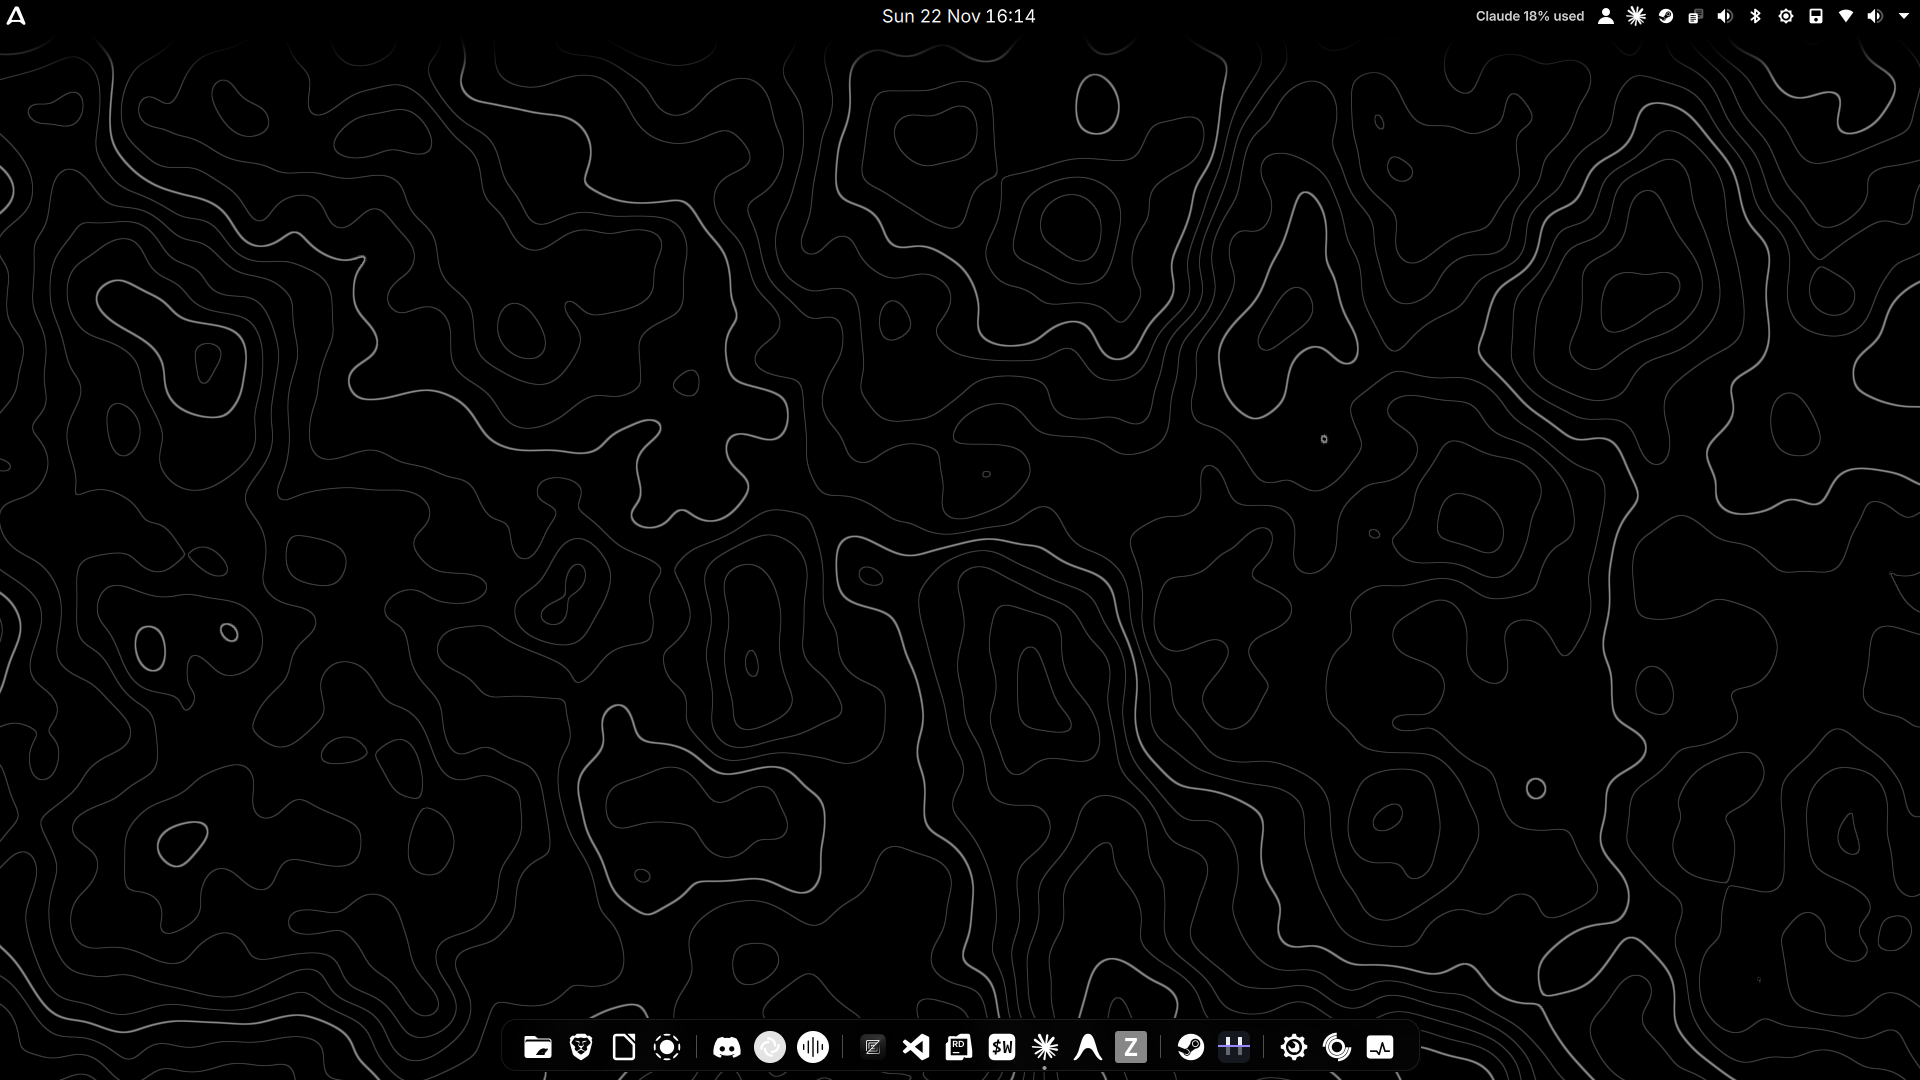
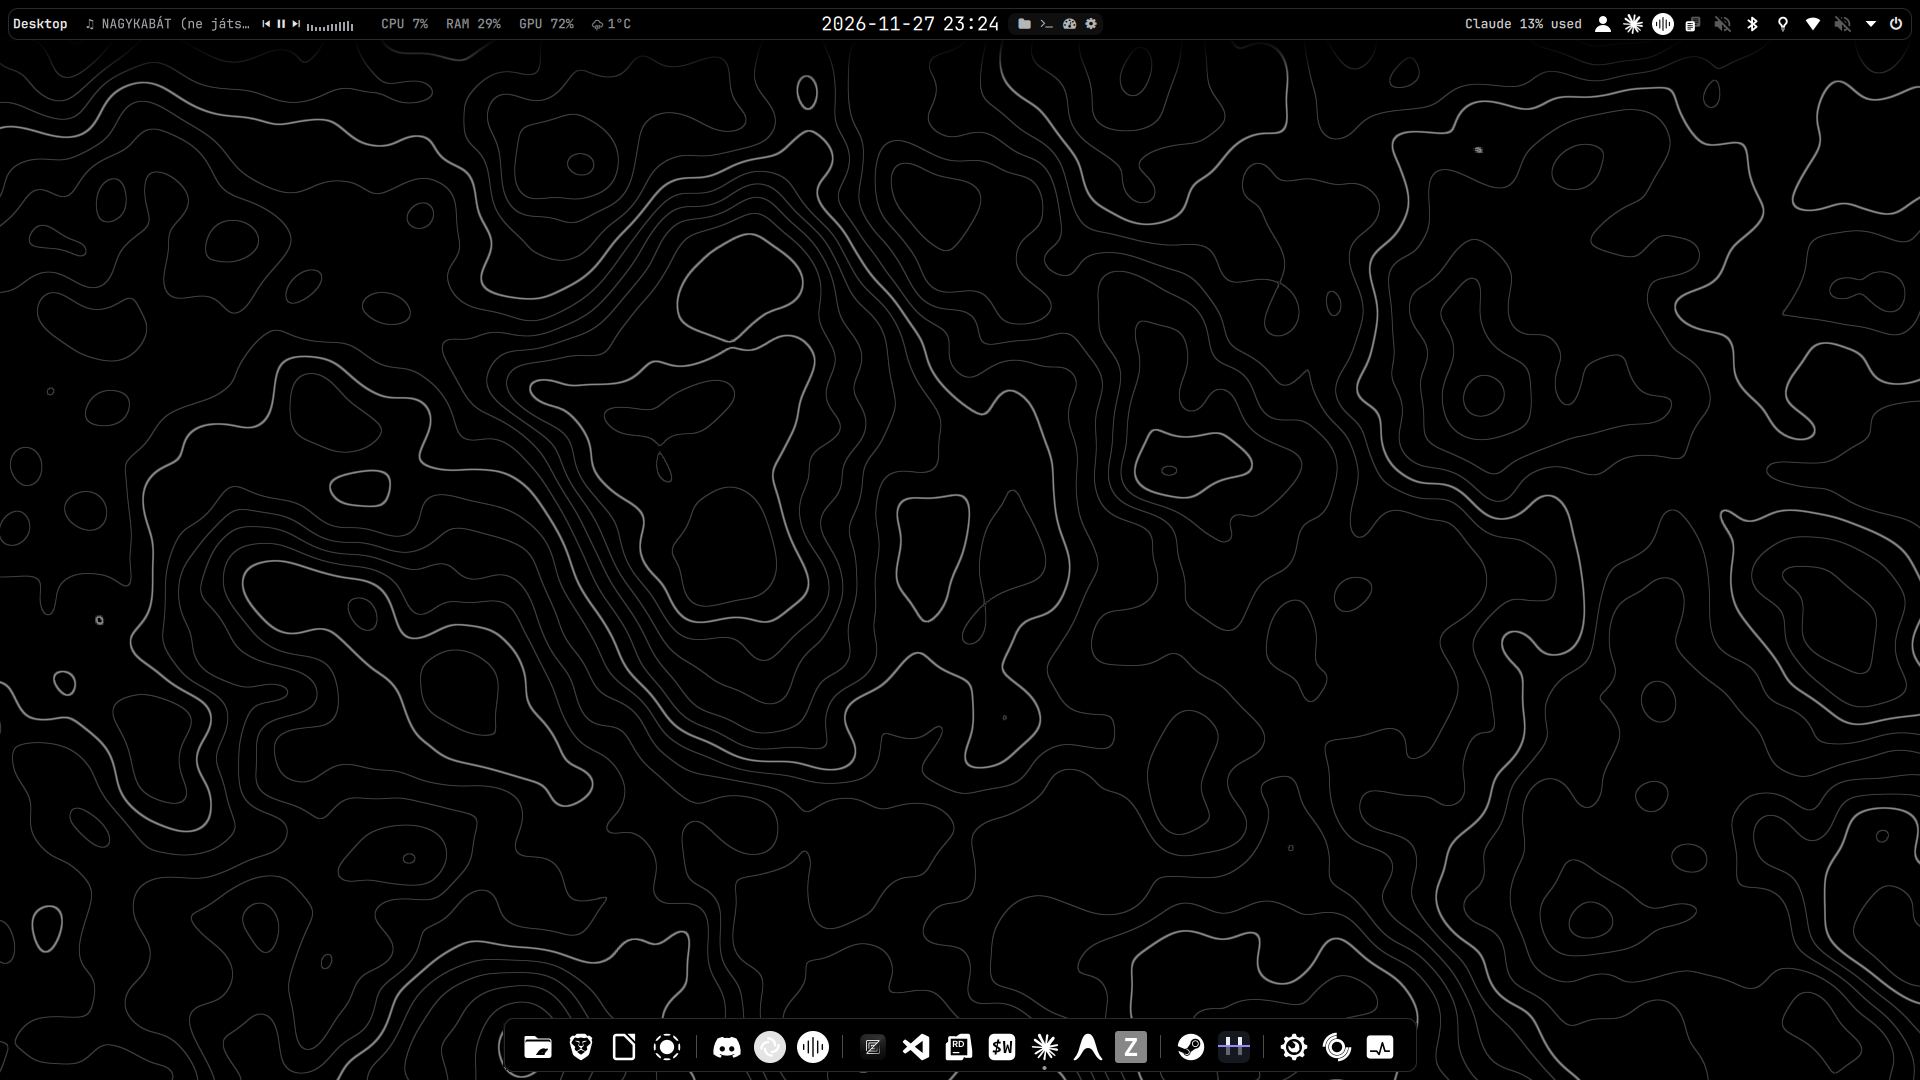
docs: retake the laptop screenshots and add the design notes
The laptop shots show the new top bar, dock border and yyyy-MM-dd clock.

diff --git a/docs/superpowers/plans/2026-11-27-laptop-top-bar.md b/docs/superpowers/plans/2026-11-27-laptop-top-bar.md
@@ -1,0 +1,105 @@
+# Laptop Top Bar Implementation Plan
+
+> **For agentic workers:** REQUIRED SUB-SKILL: Use superpowers:subagent-driven-development (recommended) or superpowers:executing-plans to implement this plan task-by-task. Steps use checkbox (`- [ ]`) syntax for tracking.
+
+**Goal:** Make the laptop's KDE panels look like, and show what, the Windows YASB bar and dock do.
+
+**Architecture:**
+- A user-local Plasma style, `OLED-Monochrome`: a copy of WhiteSur-dark-mono with its own panel
+  background, opaque black, radius 10, 1 px `#2A2B2D` border.
+- Six small QML plasmoids (quick apps added while building) under `strata/40-apps/kde-bar/plasmoids/`.
+- One install script that installs the style and plasmoids and, with `--layout`, rebuilds the top
+  panel after a backup.
+
+**Tech Stack:** QML (Plasma 6.8 plasmoids), bash, Python 3 stdlib, cava.
+
+**Spec:** `docs/superpowers/specs/2026-11-27-laptop-top-bar-design.md`
+
+## Global Constraints
+
+- Plasma 6 / Qt 6 QML only; no compiled code, no AUR packages.
+- Text: font `JetBrainsMono Nerd Font`, colour `#E6E6E6`; border `#2A2B2D`; corner radius 10 px.
+- Polling: at most every 2000 ms for stats, 30 min for weather, 300 s for the calendar refresh,
+  about 50 ms for the visualizer, and only while a player is Playing.
+- `--dry-run` on every script. Back up `~/.config/plasma-org.kde.plasma.desktop-appletsrc` and
+  `~/.config/plasmarc` with a timestamp before changing them. Edit AppletOrder only while
+  `plasma-plasmashell.service` is stopped.
+- No secrets in the repo. No commits unless the user asks.
+
+## Review Focus
+
+- **Nothing playing, or the player closed while playing:** the media widget takes no room and the
+  helper exits.
+- **cava not installed:** the visualizer shows flat bars and nothing errors in the journal.
+- **Offline at login:** the weather is hidden, then appears on the next successful fetch.
+- **No events in the coming days, or an all-day event:** the event label hides, or shows `All day`.
+- **Desktop focused (no active window):** the app name shows `Desktop`.
+
+---
+
+### Task 1: Plasma style with rounded, bordered panels
+
+**Files:**
+- Create: `strata/40-apps/kde-bar/plasma-style/panel-background.svg`
+  - A frame SVG with the elements `center`, `top`, `bottom`, `left`, `right`, `topleft`,
+    `topright`, `bottomleft` and `bottomright`.
+  - Matching `mask-*` elements, and `hint-{top,bottom}-margin` of 3 px and
+    `hint-{left,right}-margin` of 8 px.
+  - Corners are 10 x 10: a quarter disc of `#2A2B2D` with a radius-9 black quarter disc inside;
+    edges are 1 px border plus black.
+- Create: `strata/40-apps/kde-bar/install-kde-bar.sh`. This task adds the `--style` part only:
+  copy `/usr/share/plasma/desktoptheme/WhiteSur-dark-mono` to
+  `~/.local/share/plasma/desktoptheme/OLED-Monochrome`, rewrite the metadata Id and Name, and put
+  the SVG at `widgets/panel-background.svg` with the `.svgz` removed. Then
+  `plasma-apply-desktoptheme OLED-Monochrome`.
+
+- [ ] Validate the SVG with Python `xml.etree`; every required id is present.
+- [ ] Run `install-kde-bar.sh --dry-run --style` and check it lists the copy, the overlay and the
+  apply.
+- [ ] Run `--style` on the laptop; `plasmarc [Theme] name=OLED-Monochrome`.
+- [ ] Screenshot: both panels show rounded corners with a grey 1 px border.
+
+### Task 2: Widgets
+
+**Files:** `strata/40-apps/kde-bar/plasmoids/<id>/metadata.json` and `contents/ui/main.qml` for
+each widget. All use `Plasmoid.backgroundHints: NoBackground` and take no room while they have
+nothing to show.
+
+| Id | Shows | Source |
+|---|---|---|
+| `org.csps.appname` | Active app name (bold), or `Desktop` | `TaskManager.TasksModel` active task, `AppName` role |
+| `org.csps.media` | ♫ track, ⏮ ⏯ ⏭, a 12-bar visualizer | `org.kde.plasma.private.mpris` `Mpris2Model.currentPlayer`; levels from `cava-levels.py` |
+| `org.csps.stats` | `CPU n%  RAM n%  GPU n%  <icon> n°C` | `org.kde.ksysguard.sensors` `cpu/all/usage`, `memory/physical/usedPercent`, `gpu/all/usage` (2000 ms); `https://wttr.in/?format=j1` every 30 min |
+| `org.csps.nextevent` | `14:00 Title` of the next event in the coming 7 days; tooltip with date | `org.kde.plasma.workspace.calendar` `EventPluginsManager { enabledPlugins: ["pimevents"] }` + `Calendar.daysModel.eventsForDate()` |
+| `org.csps.power` | ⏻ glyph; click opens the leave screen | `qdbus6 org.kde.LogoutPrompt /LogoutPrompt org.kde.LogoutPrompt.promptAll` via the executable engine |
+
+- Create: `strata/40-apps/kde-bar/cava-levels.py`.
+  - `python3 cava-levels.py [--port 47836] [--bars 12] [--self-test]`.
+  - It serves `GET /` with `text/plain` levels `0..100` separated by `;`, from a cava child
+    started with a generated raw-ascii config.
+  - Bound to 127.0.0.1. It exits after 5 s without requests. Without cava it serves zeros.
+  - The widget starts it detached when Playing (`setsid -f python3 ... >/dev/null 2>&1`).
+- [ ] `python3 cava-levels.py --self-test` prints `ok` (parsing of a cava raw frame, idle exit).
+- [ ] Each plasmoid installs with `kpackagetool6 -t Plasma/Applet -i/-u`, and
+  `journalctl --user -u plasma-plasmashell` shows no QML errors for `org.csps.*` after a restart.
+
+### Task 3: Top panel layout
+
+**Files:** `install-kde-bar.sh` gains `--layout`.
+
+- [ ] Back up `appletsrc` and `plasmarc`.
+- [ ] Through `evaluateScript`, add the six widgets to the top panel and remove
+  `org.kde.plasma.pager`, `org.kde.plasma.mediacontroller` and `org.kde.plasma.quicklaunch`. Set the clock's font to JetBrains
+  Mono (`autoFontAndSize=false`, `fontFamily=JetBrainsMono Nerd Font`).
+- [ ] Stop plasmashell and set AppletOrder to: kicker, appname, appmenu, media, stats, spacer,
+  clock, nextevent, quickapps, spacer, aiusage, systray, power. Start plasmashell.
+- [ ] `--dry-run --layout` prints the backup paths and the new order without changing anything.
+- [ ] Screenshot compared with `docs/screenshots/windows-top-bar.png`, with a player playing and
+  without.
+
+### Task 4: Docs
+
+- [ ] Write `strata/40-apps/kde-bar/README.md` (what, needs, install, restore).
+- [ ] Update `hosts/laptop/README.md` (Plasma style row, top panel, drop the "left out on purpose"
+  note) and the root README's 40-apps lists.
+- [ ] Retake `docs/screenshots/laptop-*.png` and update its README.

diff --git a/docs/superpowers/specs/2026-11-27-laptop-top-bar-design.md b/docs/superpowers/specs/2026-11-27-laptop-top-bar-design.md
@@ -1,0 +1,71 @@
+# Laptop top bar and dock like Windows (design)
+
+Date: 2026-11-27. Approved in conversation ("Build it").
+
+## Intent
+
+The laptop's KDE Plasma 6 panels should look like, and show the same things as, the Windows YASB top
+bar and Windhawk dock (`docs/screenshots/windows-top-bar.png`, `windows-dock.png`).
+
+## Goals
+
+- **Both panels:** black, rounded (10 px), with a 1 px `#2A2B2D` border, floating, as on Windows.
+- **Top bar, left:** Arch launcher logo, the active app's name, the global menu, the playing track
+  with previous / play-pause / next and a small visualizer, then `CPU n% RAM n% GPU n%` and the weather.
+- **Top bar, centre:** date and time, the next calendar event, a quick-apps glyph pill (Dolphin,
+  WezTerm, System Monitor, System Settings).
+- **Top bar, right:** the AI usage widget, the system tray, and a power button that opens KDE's
+  leave screen.
+- **Text:** JetBrains Mono Nerd Font, `#E6E6E6`, like YASB.
+
+## Non-goals and anti-goals
+
+- No layout change to the dock beyond the border.
+- No AUR widgets and no compiled code: QML plasmoids and small scripts in the repo, like
+  `kde-dock` and `ai-usage`.
+- No secrets in the repo; no polling faster than the Windows bar (2 s for stats, 30 min for weather).
+- The pager goes (Windows has none).
+
+## Constraints
+
+- Plasma draws panel backgrounds from the Plasma style, so the rounding and border come from a
+  user-local Plasma style.
+- `plasma-org.kde.plasma.desktop-appletsrc` is edited only while plasmashell is stopped, after a
+  timestamped backup. Scripts get `--dry-run`.
+- The visualizer needs `cava` (`sudo pacman -S cava`, done by the user). Without it, it stays flat.
+- Battery: the stats and visualizer cost CPU; the visualizer runs only while a player is playing.
+
+## Approaches
+
+1. **Custom QML widgets plus a Plasma style override (picked).** One look and font, no AUR, data
+   from public KDE QML modules (task manager, ksysguard sensors, Plasma calendar, mpris).
+2. Stock KDE widgets (system monitor text faces, weather, media controller) plus AUR ones (window
+   title, Kurve). Faster to set up, but mixed fonts and looks, AUR dependencies, and the weather
+   widget needs a manually picked station.
+3. Draw the bar entirely inside one big widget on a transparent panel. Plasma 6 panels can't be
+   fully transparent, so the theme background would still show.
+
+## Decided (builder's calls, stated to the user)
+
+- **Data sources:**
+  - App name: the task manager model's active task.
+  - Media: Plasma's mpris module.
+  - Stats: ksysguard sensors `cpu/all/usage`, memory, `gpu/all/usage`.
+  - Weather: wttr.in (`?format=j1`), which locates by IP in one call, as the laptop's WezTerm
+    already does. Open-Meteo would need a second geo-IP service.
+  - Visualizer: `cava`, run by a small Python helper that serves the latest bar levels on
+    127.0.0.1. The widget polls it about 20 times a second while a player is playing, and the
+    helper stops cava and exits when nobody asks.
+  - Next event: the Plasma calendar event plugins (Akonadi, already syncing Google). If that can't
+    be used from a plasmoid, use `yasb/calendar/next-event.py` with a link file the user creates.
+- **Power:** a button that calls the leave screen (`org.kde.LogoutPrompt`).
+- **New repo parts:** `strata/40-apps/kde-bar/` (plasmoids, Plasma style, install script) and docs
+  updates (`hosts/laptop/README.md`, root README, screenshots).
+
+## Changed while building
+
+- **Quick apps:** KDE's Quick Launch showed blank icons, so a glyph pill (`org.csps.quickapps`)
+  copies the Windows `quick_apps` widget instead.
+- **AI usage label:** set to JetBrains Mono like the rest of the bar.
+- **Clock:** KDE's clock stays, for its calendar popup. It scales its text to the panel height, so
+  it is a little larger than the rest.

diff --git a/docs/screenshots/README.md b/docs/screenshots/README.md
@@ -2,7 +2,7 @@
 
 Reference shots of the finished **OLED Monochrome** setup, taken with no windows on screen
 (Windows: Show Desktop). Windows shots: 25 November 2026 (the search-only Start menu: 22 November);
-laptop and phone: 22 November 2026. Wallpaper: [OLED Span](../../strata/40-apps/oled-span/) (contours style) everywhere;
+laptop: 27 November 2026; phone: 22 November 2026. Wallpaper: [OLED Span](../../strata/40-apps/oled-span/) (contours style) everywhere;
 it only draws greys. Use them to check a rebuild (the
 [`INSTALL-WITH-AI.md`](../../INSTALL-WITH-AI.md) prompt tells the agent to compare against them).
 
@@ -27,12 +27,13 @@ Setup: [`strata/40-apps/windhawk/`](../../strata/40-apps/windhawk/), [`strata/40
 
 | File | What it shows |
 |---|---|
-| [`laptop-desktop.png`](laptop-desktop.png) | Top panel with centred clock, Claude usage and tray; the custom dock with group dividers. |
-| [`laptop-top-panel.png`](laptop-top-panel.png) | The top panel on its own. |
+| [`laptop-desktop.png`](laptop-desktop.png) | The rounded, bordered top bar laid out like Windows (focused app name, playing track with visualizer, CPU / RAM / GPU and weather; centred `yyyy-MM-dd` clock and quick-app glyphs; Claude usage, tray, power), and the bordered dock with group dividers. |
+| [`laptop-top-panel.png`](laptop-top-panel.png) | The top bar on its own (1920x48: the panel floats a few pixels from the edges). |
 | [`laptop-dock.png`](laptop-dock.png) | The dock on its own. |
 
-Setup: [`hosts/laptop/`](../../hosts/laptop/), [`strata/40-apps/kde-dock/`](../../strata/40-apps/kde-dock/),
-[`strata/40-apps/ai-usage/`](../../strata/40-apps/ai-usage/), [`strata/40-apps/oled-span/`](../../strata/40-apps/oled-span/).
+Setup: [`hosts/laptop/`](../../hosts/laptop/), [`strata/40-apps/kde-bar/`](../../strata/40-apps/kde-bar/),
+[`strata/40-apps/kde-dock/`](../../strata/40-apps/kde-dock/), [`strata/40-apps/ai-usage/`](../../strata/40-apps/ai-usage/),
+[`strata/40-apps/oled-span/`](../../strata/40-apps/oled-span/).
 
 ## Phone (Galaxy A52s, Android)
 
@@ -44,7 +45,8 @@ Setup: [`strata/40-apps/oled-span/`](../../strata/40-apps/oled-span/) (`wallpape
 
 ## Left out
 
-The calendar-event widget was hidden while taking the Windows shots (taken out of the live
-`config.yaml` for the capture and put back right after), and the laptop's desktop icons
-were hidden (the desktop pointed at an empty folder for the shot), because both show personal names. The phone shot is an empty home-screen page, since the main one
+The calendar-event widget was hidden on both machines while taking the shots (Windows: taken out of
+the live `config.yaml`; laptop: taken off the panel, then put back with `install-kde-bar.sh --layout`),
+and the laptop's desktop icons were hidden (the desktop pointed at an empty folder for the shot;
+since 27 November the laptop desktop shows no icons at all), because they show personal names. The phone shot is an empty home-screen page, since the main one
 shows widgets with personal details (location, account balance).

diff --git a/docs/superpowers/specs/2026-11-27-boot-login-lock-design.md b/docs/superpowers/specs/2026-11-27-boot-login-lock-design.md
@@ -1,0 +1,36 @@
+# Boot, login, lock and splash screens (design)
+
+Date: 2026-11-27. The user chose "contours everywhere".
+
+## Intent
+
+The screens around the desktop should match it: the OLED Span contours (thin grey lines on black)
+wherever a picture can go, and black with a thin grey spinner where only simple graphics work. No
+logos.
+
+## Decided
+
+| Screen | Look | How | Who runs it |
+|---|---|---|---|
+| Laptop lock screen | The live OLED Span wallpaper (animated) | `kscreenlockerrc [Greeter] WallpaperPlugin=com.csps.oledspan`, with the top-panel dimming off | Claude (user config) |
+| Laptop splash after login | Contours still, a thin grey spinner, fading into the desktop | A splash-only look-and-feel package `org.csps.oledspan.splash` in `~/.local/share/plasma/look-and-feel/`, set in `ksplashrc` | Claude |
+| Laptop login (SDDM) | Contours still behind Breeze's login form | Image in `/usr/share/wallpapers/`, plus Breeze's `theme.conf.user` | The user (sudo); commands in the repo |
+| Laptop boot splash | Black, thin grey spinner | A Plymouth script theme `oled-span`, then `plymouth-set-default-theme -R` (rebuilds the initramfs) | The user (sudo) |
+| Laptop boot menu | Unchanged | systemd-boot has no themes; `loader.conf` only sets the timeout and resolution | — (documented) |
+| Windows lock and sign-in | Contours still | The WinRT `LockScreen.SetImageFileAsync` from Windows PowerShell 5.1; the sign-in screen already shows the lock picture | Claude (user setting) |
+| Windows boot logo, sign-out and shutdown | Unchanged | Firmware logo or system screens; not customisable without hacks | — (documented) |
+
+## Stills
+
+- Rendered from the web build (`wallpaper-engine-web/index.html?style=contours&topdim=0`) with
+  headless Brave at 1920x1080, which is both main screens.
+- Kept in `strata/40-apps/oled-span/stills/`.
+- `render-stills.ps1` makes them again.
+
+## Constraints
+
+- Back up every config file before changing it.
+- The sudo steps are files plus exact commands; Claude never runs sudo.
+- Nothing is committed unless the user asks.
+- Test with the tools' own test modes (`kscreenlocker_greet --testing`, `ksplashqml --test`,
+  `sddm-greeter-qt6 --test-mode`) instead of locking or logging out the live session.
